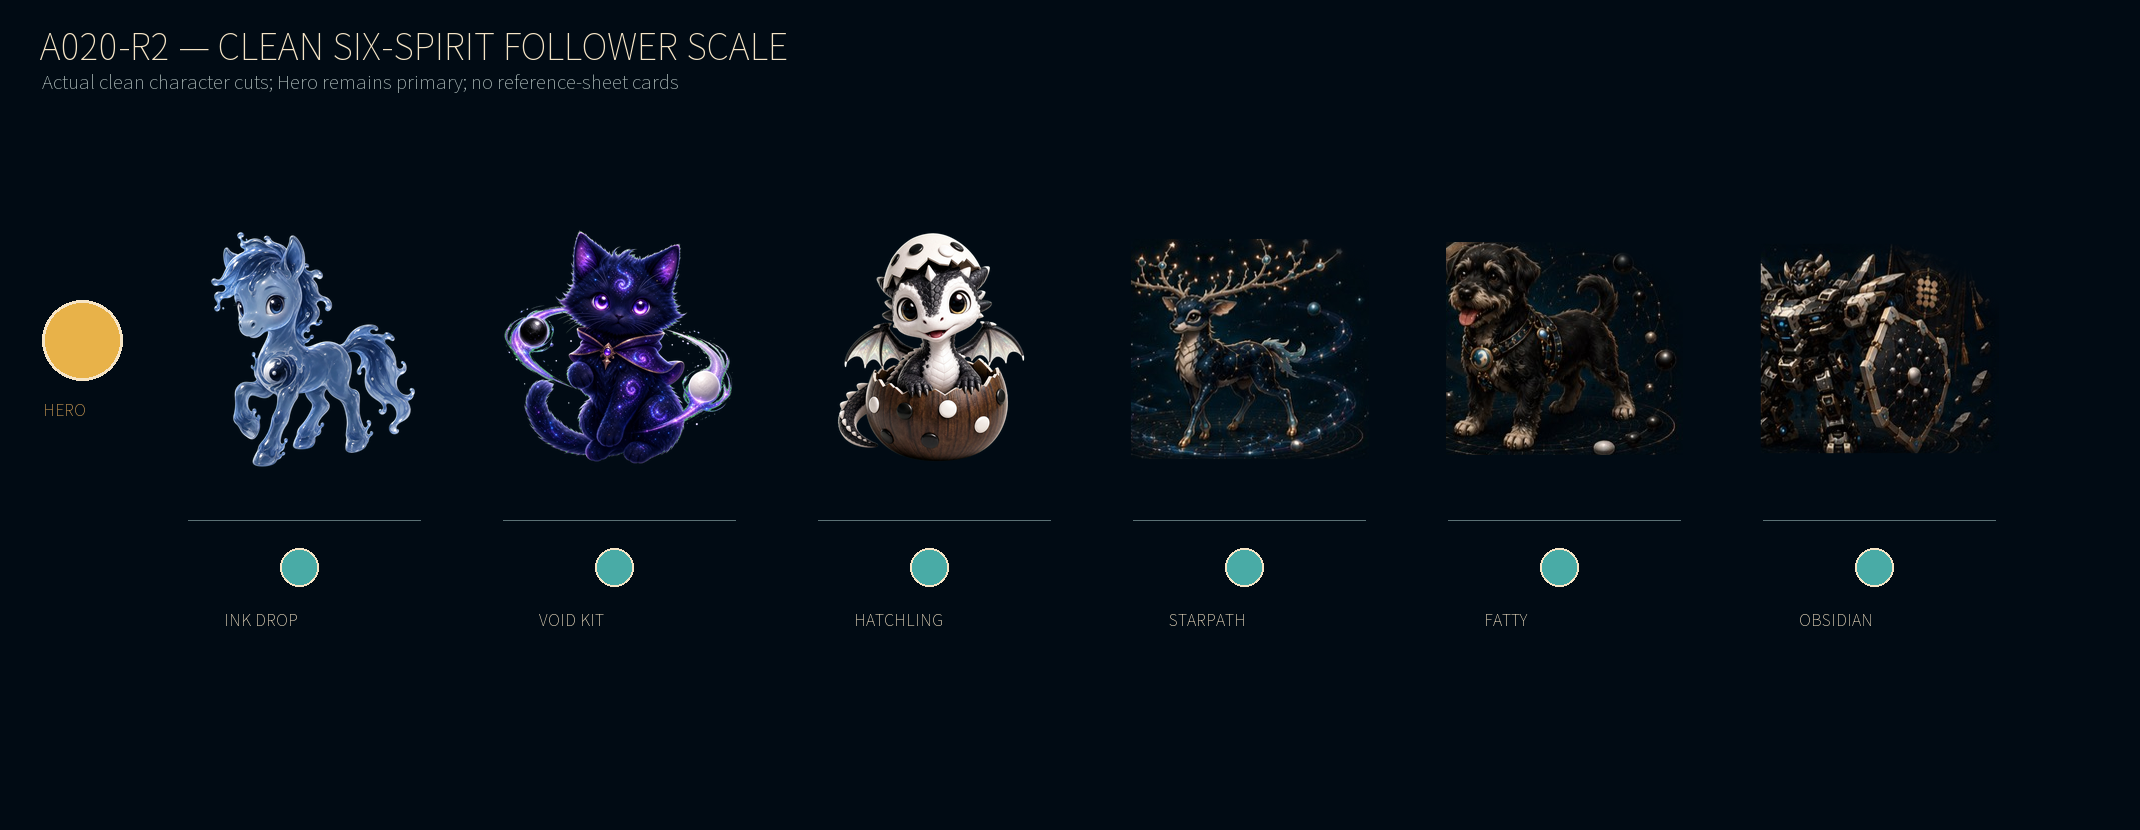
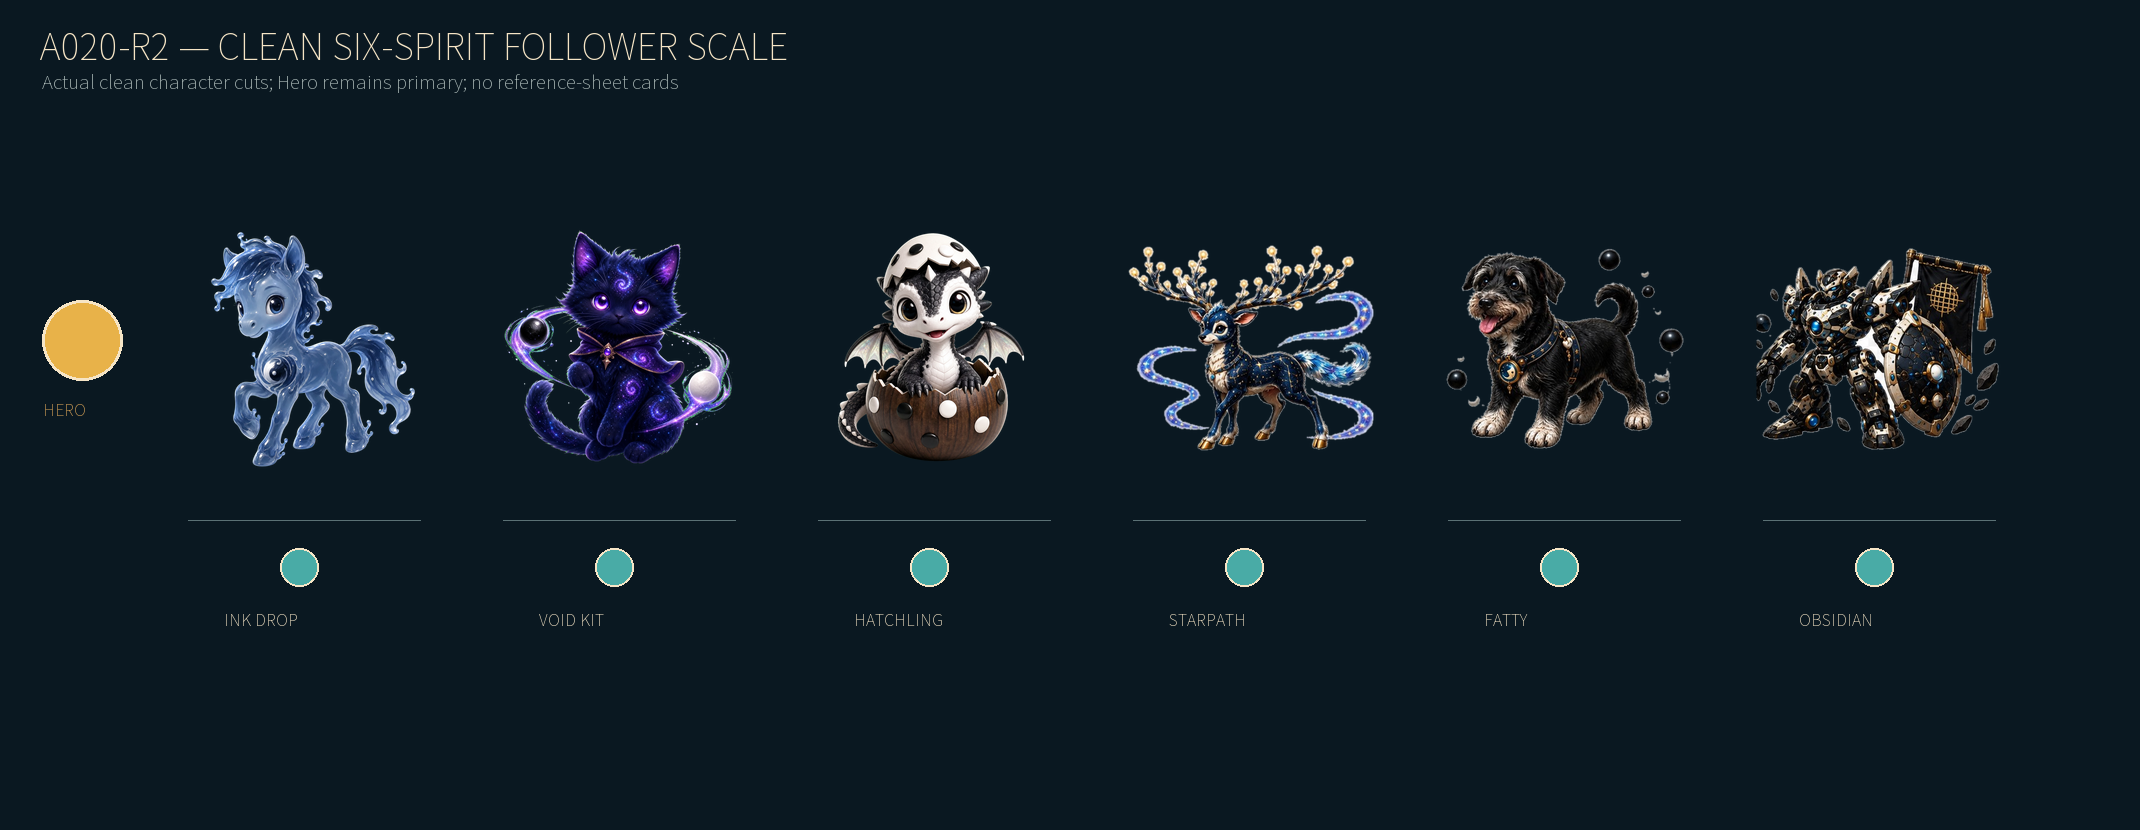
docs: use corrected A020 clean spirit source

Changed region(s): [[0.6785, 0.2711, 0.9561, 0.5422], [0.5243, 0.3012, 0.6477, 0.5422]]

diff --git a/tools/build_a020r2_clean_visual_asset_packet.py b/tools/build_a020r2_clean_visual_asset_packet.py
@@ -2,12 +2,13 @@ from __future__ import annotations
 
 """Build deterministic, non-generative A020-R2 presentation extracts.
 
-The Owner reference is the only visual source.  This script crops the approved
-forms, applies hand-authored alpha bounds to remove reference-sheet text and
-frames, and composes review sheets from those extracted pixels.  It does not
-generate, redraw, recolor, or reinterpret any Spirit.
+The corrected Owner clean-source is the only visual source for the nine new
+forms. It is a 3x3 checkerboard-backed sheet. This script removes only the
+checkerboard background, crops each supplied form, and composes review sheets.
+It does not generate, redraw, recolor, or reinterpret any Spirit.
 """
 
+from collections import deque
 from pathlib import Path
 
 from PIL import Image, ImageDraw, ImageFilter, ImageFont
@@ -16,11 +17,10 @@ from PIL import Image, ImageDraw, ImageFilter, ImageFont
 ROOT = Path(__file__).resolve().parents[1]
 EVIDENCE = ROOT / "docs" / "review" / "a020r2"
 FORMS = EVIDENCE / "clean_forms"
-SOURCE_PATH = ROOT / "docs" / "review" / "a020r1" / "A020R1_OWNER_REFERENCE_PRIMARY.jpg"
+SOURCE_PATH = EVIDENCE / "A020R2_OWNER_CLEAN_SOURCE.jpg"
 EXISTING = ROOT / "assets" / "pets"
 
-CANVAS = (1, 11, 20, 255)
-PANEL = (18, 39, 49, 255)
+CANVAS = (10, 24, 33, 255)
 GOLD = (218, 164, 87, 255)
 CREAM = (246, 229, 198, 255)
 MUTED = (177, 191, 189, 255)
@@ -29,65 +29,21 @@ TEAL = (73, 171, 166, 255)
 FONT_PATH = Path("C:/Windows/Fonts/NotoSansTC-VF.ttf")
 
 
-# Coordinates are in the Owner reference image's native 1280x853 space.
-# Each crop excludes the source poster's title, explanatory copy, separators,
-# and outer frame.  The polygon is a presentation matte only; it never paints
-# over or changes source pixels.
+# The corrected Owner source is a 3x3 presentation grid in native 1254x1254
+# space. The visible character rows do not occupy mathematically equal thirds;
+# these boxes follow the actual supplied character extents and leave the
+# inter-row whitespace out of each clean cut. Columns likewise stop before the
+# adjacent form begins so no neighboring fragments enter the alpha matte.
 FORM_SPECS = {
-    "spirit4_stage1": {
-        "spirit": "starpath",
-        "stage": "I",
-        "box": (170, 176, 422, 334),
-        "polygon": [(181, 181), (226, 178), (280, 188), (338, 205), (395, 230), (418, 260), (419, 328), (183, 333), (170, 307)],
-    },
-    "spirit4_stage2": {
-        "spirit": "starpath",
-        "stage": "II",
-        "box": (168, 354, 424, 554),
-        "polygon": [(179, 354), (226, 354), (292, 356), (356, 369), (410, 397), (423, 443), (421, 548), (177, 552), (168, 511)],
-    },
-    "spirit4_stage3": {
-        "spirit": "starpath",
-        "stage": "III",
-        "box": (166, 576, 422, 814),
-        "polygon": [(173, 579), (224, 576), (290, 581), (354, 590), (410, 614), (421, 657), (420, 805), (179, 810), (166, 774)],
-    },
-    "spirit5_stage1": {
-        "spirit": "fatty",
-        "stage": "I",
-        "box": (594, 180, 838, 334),
-        "polygon": [(601, 204), (651, 190), (712, 194), (770, 208), (818, 231), (836, 270), (835, 330), (598, 333), (590, 286)],
-    },
-    "spirit5_stage2": {
-        "spirit": "fatty",
-        "stage": "II",
-        "box": (590, 354, 838, 554),
-        "polygon": [(594, 354), (643, 354), (700, 356), (759, 368), (811, 392), (836, 434), (836, 548), (592, 552), (588, 493)],
-    },
-    "spirit5_stage3": {
-        "spirit": "fatty",
-        "stage": "III",
-        "box": (585, 578, 838, 807),
-        "polygon": [(587, 584), (637, 579), (701, 584), (762, 598), (815, 624), (836, 669), (836, 800), (588, 805), (580, 735)],
-    },
-    "spirit6_stage1": {
-        "spirit": "obsidian",
-        "stage": "I",
-        "box": (974, 180, 1202, 334),
-        "polygon": [(979, 184), (1032, 176), (1088, 181), (1149, 195), (1196, 223), (1200, 263), (1198, 330), (975, 333), (968, 287)],
-    },
-    "spirit6_stage2": {
-        "spirit": "obsidian",
-        "stage": "II",
-        "box": (966, 354, 1210, 554),
-        "polygon": [(969, 354), (1024, 354), (1085, 356), (1147, 368), (1198, 399), (1208, 444), (1206, 548), (969, 552), (958, 476)],
-    },
-    "spirit6_stage3": {
-        "spirit": "obsidian",
-        "stage": "III",
-        "box": (990, 578, 1252, 810),
-        "polygon": [(995, 582), (1030, 577), (1084, 584), (1147, 598), (1206, 624), (1248, 662), (1248, 800), (994, 805), (986, 738)],
-    },
+    "spirit4_stage1": {"box": (0, 0, 405, 370)},
+    "spirit4_stage2": {"box": (405, 0, 830, 370)},
+    "spirit4_stage3": {"box": (830, 0, 1254, 370)},
+    "spirit5_stage1": {"box": (0, 375, 405, 780)},
+    "spirit5_stage2": {"box": (405, 375, 810, 780)},
+    "spirit5_stage3": {"box": (810, 375, 1254, 780)},
+    "spirit6_stage1": {"box": (0, 790, 405, 1254)},
+    "spirit6_stage2": {"box": (405, 790, 810, 1254)},
+    "spirit6_stage3": {"box": (810, 790, 1254, 1254)},
 }
 
 DISPLAY_NAMES = {
@@ -107,34 +63,83 @@ def fit(image: Image.Image, size: tuple[int, int]) -> Image.Image:
     return result
 
 
-def extracted_form(source: Image.Image, spec: dict) -> Image.Image:
-    """Return an alpha-isolated source crop with no poster chrome."""
+def checkerboard_background_mask(source: Image.Image) -> Image.Image:
+    """Keep foreground pixels and clear light-gray pixels connected to edges."""
+    source = source.convert("RGB")
+    width, height = source.size
+    pixels = source.load()
+    candidate = bytearray(width * height)
+
+    for y in range(height):
+        row = y * width
+        for x in range(width):
+            red, green, blue = pixels[x, y]
+            # The supplied checkerboard is near-neutral and light. Keeping the
+            # color-range test protects white dog/mech details enclosed by dark
+            # outlines while allowing JPEG edge noise around the checkerboard.
+            if min(red, green, blue) >= 210 and max(red, green, blue) - min(red, green, blue) <= 18:
+                candidate[row + x] = 1
+
+    visited = bytearray(width * height)
+    queue: deque[int] = deque()
+
+    def seed(index: int):
+        if candidate[index] and not visited[index]:
+            visited[index] = 1
+            queue.append(index)
+
+    for x in range(width):
+        seed(x)
+        seed((height - 1) * width + x)
+    for y in range(height):
+        seed(y * width)
+        seed(y * width + width - 1)
+
+    while queue:
+        index = queue.popleft()
+        x = index % width
+        y = index // width
+        if x:
+            seed(index - 1)
+        if x + 1 < width:
+            seed(index + 1)
+        if y:
+            seed(index - width)
+        if y + 1 < height:
+            seed(index + width)
+
+    mask = Image.new("L", (width, height), 255)
+    mask_pixels = mask.load()
+    for index, is_background in enumerate(visited):
+        if is_background:
+            mask_pixels[index % width, index // width] = 0
+    return mask.filter(ImageFilter.GaussianBlur(radius=0.8))
+
+
+def extracted_form(source: Image.Image, background_mask: Image.Image, spec: dict) -> Image.Image:
+    """Return a transparent clean cut from the supplied Owner pixels."""
     x1, y1, x2, y2 = spec["box"]
     crop = source.crop((x1, y1, x2, y2)).convert("RGBA")
-    local_polygon = [(x - x1, y - y1) for x, y in spec["polygon"]]
-    mask = Image.new("L", crop.size, 0)
-    ImageDraw.Draw(mask).polygon(local_polygon, fill=255)
-    # A short edge feather avoids a hard poster-edge cut while preserving the
-    # approved source pixels inside the matte.
-    mask = mask.filter(ImageFilter.GaussianBlur(radius=7.0))
+    mask = background_mask.crop((x1, y1, x2, y2))
     crop.putalpha(mask)
-    bbox = mask.getbbox()
+
+    trim_mask = mask.point(lambda value: 255 if value > 32 else 0)
+    bbox = trim_mask.getbbox()
     if bbox is None:
         raise ValueError(f"empty extraction mask for {spec}")
-    # Keep a modest transparent breathing room around every form so all nine
-    # outputs can be placed consistently without a visible rectangular sheet.
-    pad = 18
+
+    pad = 14
     bx1, by1, bx2, by2 = bbox
     bx1 = max(0, bx1 - pad)
     by1 = max(0, by1 - pad)
     bx2 = min(crop.width, bx2 + pad)
     by2 = min(crop.height, by2 + pad)
     result = crop.crop((bx1, by1, bx2, by2))
-    # Keep the review asset corners transparent even after the soft matte is
-    # cropped to its content bounds. The 8 px clear edge is outside the form
-    # because the extraction above intentionally keeps 18 px of breathing room.
+
+    # Keep the asset corners transparent after trimming. This prevents any
+    # residual checkerboard edge from reading as a rectangular screenshot.
     final_mask = result.getchannel("A")
-    edge = 8
+    edge = 6
     edge_draw = ImageDraw.Draw(final_mask)
     edge_draw.rectangle((0, 0, result.width - 1, edge - 1), fill=0)
     edge_draw.rectangle((0, result.height - edge, result.width - 1, result.height - 1), fill=0)
@@ -144,11 +149,11 @@ def extracted_form(source: Image.Image, spec: dict) -> Image.Image:
     return result
 
 
-def save_form_images(source: Image.Image) -> dict[str, Image.Image]:
+def save_form_images(source: Image.Image, background_mask: Image.Image) -> dict[str, Image.Image]:
     FORMS.mkdir(parents=True, exist_ok=True)
     result = {}
     for form_id, spec in FORM_SPECS.items():
-        image = extracted_form(source, spec)
+        image = extracted_form(source, background_mask, spec)
         image.save(FORMS / f"A020R2_{form_id.upper()}_CLEAN.png")
         result[form_id] = image
     return result
@@ -172,7 +177,7 @@ def place(canvas: Image.Image, image: Image.Image, box: tuple[int, int, int, int
 
 def build_master(forms: dict[str, Image.Image]):
     canvas = Image.new("RGBA", (1740, 1450), CANVAS)
-    header(canvas, "A020-R2 — CLEAN THREE-STAGE MASTER SHEET", "Owner-selected forms extracted from the approved reference; no redesign")
+    header(canvas, "A020-R2 — CLEAN THREE-STAGE MASTER SHEET", "Owner-selected forms extracted from the corrected clean-source; no redesign")
     draw = ImageDraw.Draw(canvas)
     columns = [("spirit4", 34), ("spirit5", 590), ("spirit6", 1146)]
     rows = [("I", 120), ("II", 560), ("III", 1000)]
@@ -194,14 +199,14 @@ def build_evolution(forms: dict[str, Image.Image], spirit: str, filename: str, t
         x = 34 + index * 604
         label(draw, (x, 128), f"STAGE {stage}", 24, GOLD)
         draw.line((x, 166, x + 570, 166), fill=(102, 119, 121, 255), width=1)
-        stage_key = {'I': '1', 'II': '2', 'III': '3'}[stage]
+        stage_key = {"I": "1", "II": "2", "III": "3"}[stage]
         place(canvas, forms[f"{spirit}_stage{stage_key}"], (x + 20, 186, x + 550, 760))
     canvas.convert("RGB").save(EVIDENCE / filename, quality=95)
 
 
 def build_final_trio(forms: dict[str, Image.Image]):
     canvas = Image.new("RGBA", (1840, 820), CANVAS)
-    header(canvas, "A020-R2 — CLEAN STAGE III FINAL TRIO", "Same baseline and presentation scale; extracted approved final forms")
+    header(canvas, "A020-R2 — CLEAN STAGE III FINAL TRIO", "Same baseline and presentation scale; corrected Owner clean-source")
     draw = ImageDraw.Draw(canvas)
     for index, spirit in enumerate(("spirit4", "spirit5", "spirit6")):
         x = 34 + index * 604
@@ -219,7 +224,6 @@ def build_follower_scale(forms: dict[str, Image.Image]):
     canvas = Image.new("RGBA", (2140, 830), CANVAS)
     header(canvas, "A020-R2 — CLEAN SIX-SPIRIT FOLLOWER SCALE", "Actual clean character cuts; Hero remains primary; no reference-sheet cards")
     draw = ImageDraw.Draw(canvas)
-    # Hero marker is intentionally larger and separated from the six followers.
     draw.ellipse((42, 300, 122, 380), fill=(232, 178, 73, 255), outline=CREAM, width=3)
     label(draw, (43, 400), "HERO", 16, GOLD)
     entries = [
@@ -241,10 +245,13 @@ def build_follower_scale(forms: dict[str, Image.Image]):
 
 def main():
     if not SOURCE_PATH.is_file():
-        raise SystemExit(f"missing Owner reference: {SOURCE_PATH}")
+        raise SystemExit(f"missing corrected Owner clean-source: {SOURCE_PATH}")
     EVIDENCE.mkdir(parents=True, exist_ok=True)
     source = Image.open(SOURCE_PATH).convert("RGB")
-    forms = save_form_images(source)
+    if source.size != (1254, 1254):
+        raise SystemExit(f"unexpected corrected source size: {source.size}")
+    background_mask = checkerboard_background_mask(source)
+    forms = save_form_images(source, background_mask)
     build_master(forms)
     build_evolution(forms, "spirit4", "A020R2_STARPATH_CLEAN_EVOLUTION_STRIP.png", "#4 STARPATH ANTLERLING — CLEAN EVOLUTION", "EXPLORATION · newborn → growing juvenile → mature final form")
     build_evolution(forms, "spirit5", "A020R2_FATTY_CLEAN_EVOLUTION_STRIP.png", "#5 阿肥 (FATTY) — CLEAN EVOLUTION", "PRECISION · newborn puppy → younger juvenile → adult Fatty")

diff --git a/tests/test_master_lane_a_e10_six_spirit_clean_visual_asset_review_a020_r2.py b/tests/test_master_lane_a_e10_six_spirit_clean_visual_asset_review_a020_r2.py
@@ -10,6 +10,7 @@ ROOT = Path(__file__).resolve().parents[1]
 SOURCE_HEAD = "b16362b232c0a5d4a41b1b72a09783b8d29b0cf3"
 EVIDENCE = ROOT / "docs" / "review" / "a020r2"
 FORMS = EVIDENCE / "clean_forms"
+OWNER_CLEAN_SOURCE = EVIDENCE / "A020R2_OWNER_CLEAN_SOURCE.jpg"
 
 FORM_IDS = [
     "SPIRIT4_STAGE1",
@@ -34,7 +35,9 @@ REVIEW_FILES = [
 
 
 def git(*args: str) -> str:
-    return subprocess.check_output(["git", *args], cwd=ROOT, text=True).strip()
+    # Preserve porcelain status' leading index/worktree columns. Removing
+    # them with str.strip() turns a modified path into a malformed path.
+    return subprocess.check_output(["git", *args], cwd=ROOT, text=True).rstrip("\r\n")
 
 
 def test_source_head_is_a020_r2_ancestor():
@@ -44,6 +47,13 @@ def test_source_head_is_a020_r2_ancestor():
         check=False,
     )
     assert result.returncode == 0
+
+
+def test_owner_clean_source_is_present_and_has_expected_grid_dimensions():
+    assert OWNER_CLEAN_SOURCE.is_file(), OWNER_CLEAN_SOURCE
+    with Image.open(OWNER_CLEAN_SOURCE) as image:
+        assert image.size == (1254, 1254)
+        assert image.mode == "RGB"
 
 
 def test_all_nine_clean_forms_exist_as_rgba_with_alpha_matte():

diff --git a/docs/planning/e10_six_spirit_clean_visual_asset_review_a020_r2.md b/docs/planning/e10_six_spirit_clean_visual_asset_review_a020_r2.md
@@ -3,9 +3,10 @@
 ## Authority and scope
 
 - Source head: `b16362b232c0a5d4a41b1b72a09783b8d29b0cf3`
-- Visual authority: `docs/review/a020r1/A020R1_OWNER_REFERENCE_PRIMARY.jpg`
-- Source authority: Owner-selected A020-R1 reference image
-- Operation: deterministic crop and alpha-matte cleanup only
+- Visual authority: `docs/review/a020r2/A020R2_OWNER_CLEAN_SOURCE.jpg`
+- Source authority: Owner-corrected clean 3×3 Spirit sheet supplied for A020-R2
+- Historical reference: `docs/review/a020r1/A020R1_OWNER_REFERENCE_PRIMARY.jpg`
+- Operation: deterministic cell extraction and checkerboard-background alpha cleanup only
 - Generation/redesign: none
 - Runtime/catalog promotion: none
 
@@ -20,13 +21,13 @@ The clean form files are review/evidence assets under
 
 ## Cleanup contract
 
-Each form is extracted from its corresponding region of the approved source
-image. The deterministic matte removes the source poster's explanatory copy,
-stage separators, decorative frame corners, and unrelated neighboring forms.
-The source character pixels, pose, palette, markings, effects, and final-form
-silhouettes are not redrawn or regenerated. Alpha transparency is used outside
-the presentation matte; the source-native dark celestial/Go-board atmosphere
-inside the form region is retained where it belongs to the approved design.
+Each form is extracted from its corresponding cell of the Owner-corrected
+3×3 checkerboard-backed clean sheet. The deterministic matte removes only
+the checkerboard pixels connected to the cell edges, while preserving enclosed
+light details that belong to a character. Cell boundaries and neighboring
+forms are removed; the source character pixels, pose, palette, markings,
+effects, and final-form silhouettes are not redrawn or regenerated.
+Alpha transparency is used outside each clean character cut.
 
 ## Review packet
 
